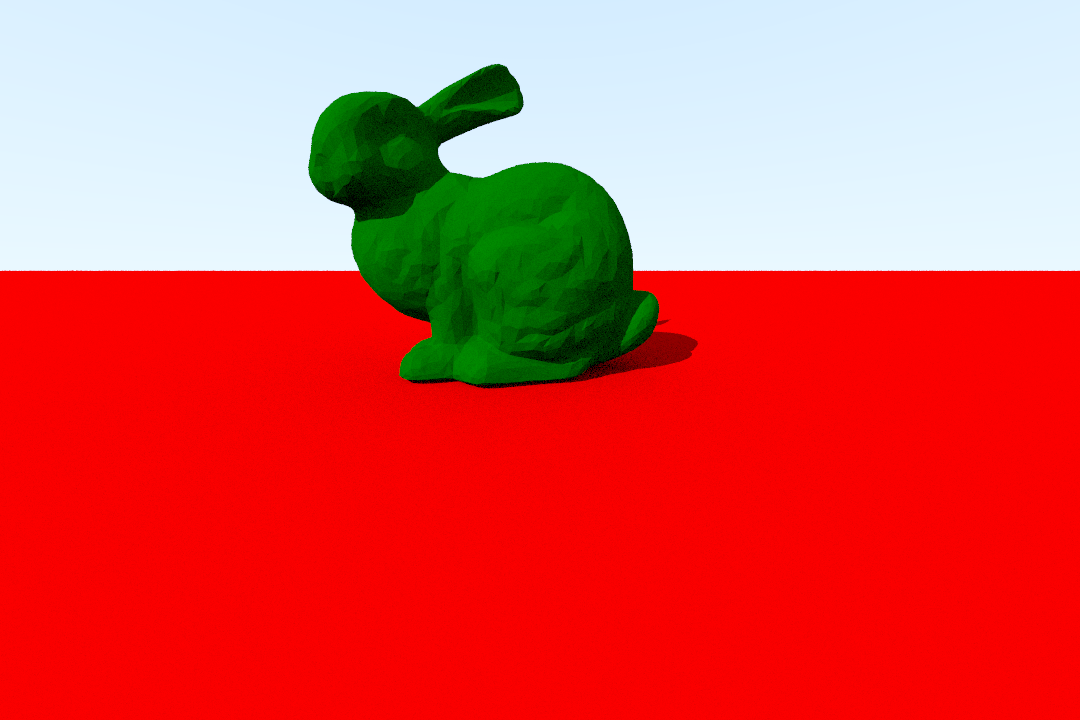
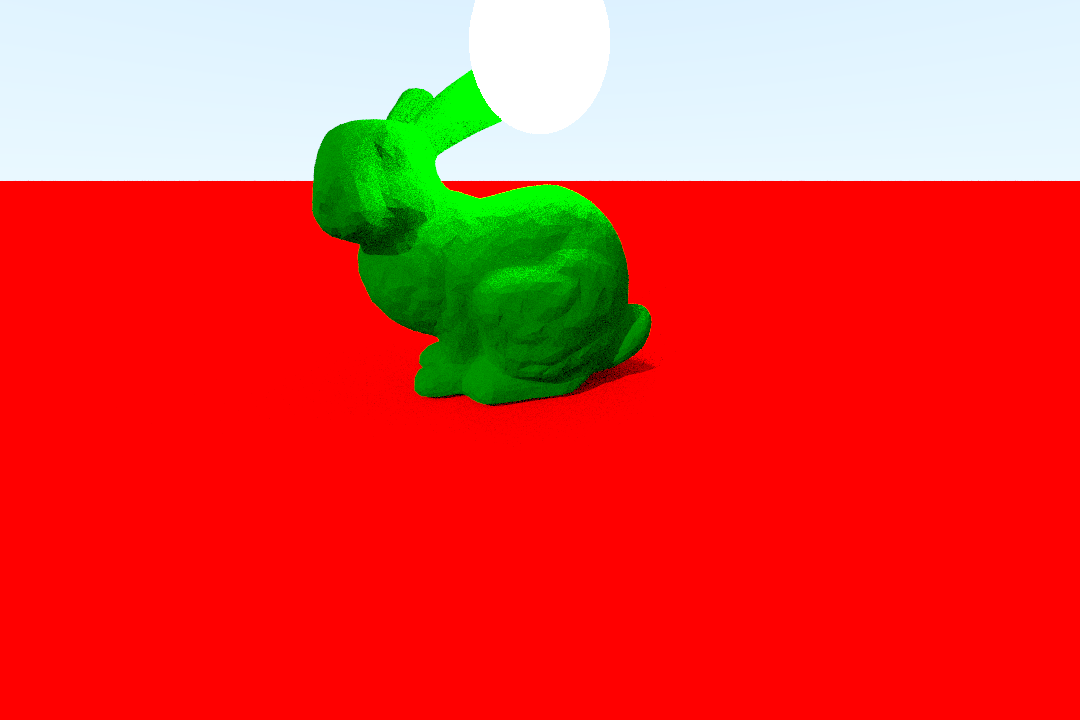
implemented full MIS with area lights and per-bounce NEE

Changed region(s): [[0.0, 0.0, 1.0, 0.5806]]

diff --git a/renderer/renderer.h b/renderer/renderer.h
@@ -8,36 +8,63 @@
 
 using LightList = std::vector<std::shared_ptr<Light>>;
 
-inline Vec3 direct_light(const HitRecord &rec, const Hittable &world, const LightList &lights) {
+inline double power_heuristic(double pdf_a, double pdf_b) {
+    double a2 = pdf_a * pdf_a;
+    double b2 = pdf_b * pdf_b;
+    return (a2 + b2) < 1e-6 ? 0.0 : a2 / (a2 + b2);
+}
+
+inline Vec3 direct_light(const Ray &ray_in, const HitRecord &rec, const Hittable &world, const LightList &lights) {
   Vec3 direct(0,0,0);
+  if (lights.empty()) return direct;
 
-  Ray dummy(rec.point, rec.normal);
-  Vec3 attenuation(1,1,1);
-  Ray scattered;
-  if (rec.mat) rec.mat->scatter(dummy, rec, attenuation, scattered);
-
+  // sampling all lights and accumulating
   for (const auto &light : lights) {
+    // NEE sample
     LightSample ls = light->sample(rec.point);
+    if (ls.pdf <= 0) continue;
+
     Vec3 to_light = ls.point - rec.point;
     double dist = to_light.norm();
     Vec3 to_light_dir = to_light / dist;
 
-    // check if surface faces the light
     double cos_theta = rec.normal.dot(to_light_dir);
     if (cos_theta <= 0) continue;
 
-    // shadow ray 
+    // shadow ray
     HitRecord shadow_rec;
     Ray shadow_ray(rec.point + rec.normal * 1e-4, to_light_dir);
-    if (world.hit(shadow_ray, 0.001, dist - 0.001, shadow_rec)) continue; // occluded
+    if (world.hit(shadow_ray, 0.001, dist - 0.01, shadow_rec)) {
+      if (!shadow_rec.mat->is_emissive()) continue; 
+    }
 
-    // Lambert BRDF * light emission * cos falloff / pdf
-    direct = direct + ls.emission * attenuation* cos_theta / ls.pdf;
+    // get surface attenuation
+    Vec3 attenuation(1,1,1);
+    Ray scattered_dummy;
+    if (rec.mat) rec.mat->scatter(ray_in, rec, attenuation, scattered_dummy);
+
+    // BSDF pdf for this light direction, to be used as MIS weight
+    Ray to_light_ray(rec.point, to_light_dir);
+    double bsdf_pdf = rec.mat->scattering_pdf(ray_in, rec, to_light_ray);
+    double light_pdf = ls.pdf;
+
+    // for delta lights (point/directional), bsdf_pdf = 0 so weight = 1 (only nee can sample)
+    // for area lights, both are nonzero so MIS balance
+    double mis_weight = (bsdf_pdf > 0) ? power_heuristic(light_pdf, bsdf_pdf) : 1.0;
+    direct = direct + ls.emission * attenuation * cos_theta * mis_weight / light_pdf;
   }
   return direct;
 }
 
-inline Vec3 ray_color(const Ray &r, const Hittable &world, const LightList &lights, int depth, bool is_first_hit = true) {
+// compute total light pdf at a point for a given direction -> used for MIS weight on the BSDF side
+inline double total_light_pdf(const Vec3 &from, const Vec3 &dir, const LightList &lights) {
+  double total = 0.0;
+  for (const auto &light : lights)
+    total += light->pdf(from, dir);
+  return total;
+}
+
+inline Vec3 ray_color(const Ray &r, const Hittable &world, const LightList &lights, int depth, double prev_bsdf_pdf = -1.0) {
   if (depth <= 0) return Vec3(0,0,0);
   HitRecord rec;
 
@@ -45,23 +72,46 @@ inline Vec3 ray_color(const Ray &r, const Hittable &world, const LightList &ligh
     Ray scattered;
     Vec3 attenuation;
 
-    if (rec.mat->scatter(r, rec, attenuation, scattered)) {
-      Vec3 direct(0,0,0);
-      if (is_first_hit && !rec.mat->is_transmissive()) direct = direct_light(rec, world, lights);
-      Vec3 indirect = ray_color(scattered, world, lights, depth-1, false) * attenuation;
-      return direct + indirect;
+    // emissive hit
+    if (rec.mat->is_emissive()) {
+      Vec3 Le = rec.mat->emit(rec.u, rec.v, rec.point);
+
+      if (prev_bsdf_pdf < 0) return Le;
+
+      // diffuse bounce - check against NEE to prevent double counting
+      double light_pdf = total_light_pdf(r.origin, r.direction, lights);
+      double mis_weight = (light_pdf > 0) ? power_heuristic(prev_bsdf_pdf, light_pdf) : 1.0;
+      return Le * mis_weight;
     }
-    return Vec3(0,0,0);
+
+
+    // for non-emissive hitlist
+
+    if (!rec.mat->scatter(r, rec, attenuation, scattered)) return Vec3(0,0,0);
+    Vec3 result(0,0,0);
+
+    // do NEE at every diffuse bounce
+    if (!rec.mat->is_transmissive()) result = result + direct_light(r, rec, world, lights);
+    double bsdf_pdf = rec.mat->scattering_pdf(r, rec, scattered);
+
+    if (bsdf_pdf <= 0) {
+      result = result + ray_color(scattered, world, lights, depth - 1, -1.0) * attenuation;
+    } else {
+      // diffuse — pass bsdf_pdf for MIS weighting downstream
+      double cos_theta = rec.normal.dot(scattered.direction.normalize());
+      if (cos_theta > 0) {
+        Vec3 indirect = ray_color(scattered, world, lights, depth - 1, bsdf_pdf) * attenuation;
+        // cos_theta / bsdf_pdf = 1 for Lambertian but kept explicit for other BSDFs
+        result = result + indirect * (cos_theta / bsdf_pdf);
+      }
+    }
+    return result;
   }
-  // sky gradient
-  if (is_first_hit) {
-    Vec3 unit = r.direction.normalize();
-    double t = 0.5*(unit.y + 1.0);
-    return Vec3(1,1,1)*(1.0-t) + Vec3(0.5,0.7,1.0)*t;
-  }
+  // sky
   Vec3 unit = r.direction.normalize();
   double t = 0.5*(unit.y + 1.0);
-  return (Vec3(1,1,1)*(1.0-t) + Vec3(0.5,0.7,1.0)*t) * 0.5; // bounced rays that miss = black
+  Vec3 sky = Vec3(1,1,1)*(1.0-t) + Vec3(0.5,0.7,1.0)*t;
+  return (prev_bsdf_pdf < 0) ? sky : sky * 0.3;
 }
 
 inline void render_rows(int start_row, int end_row, int width, int height, int samples_per_pixel, int max_depth, const Camera &camera, const Hittable &world, const LightList &lights, std::vector<Vec3> &framebuffer) {
@@ -69,12 +119,10 @@ inline void render_rows(int start_row, int end_row, int width, int height, int s
     for (int i = 0; i < width; ++i) {
       Vec3 pixel_color(0,0,0);
       for (int k = 0; k < samples_per_pixel; ++k) {
-        
         double u = (i + random_double()) / (width - 1);
         double v = (j + random_double()) / (height - 1);
-
         Ray ray = camera.get_ray(u, v);
-        pixel_color = pixel_color + ray_color(ray, world, lights, max_depth);
+        pixel_color = pixel_color + ray_color(ray, world, lights, max_depth, -1.0);
       }
       // storing the frames
       framebuffer[j*width + i] = framebuffer[j*width + i] + pixel_color;

diff --git a/src/main.cpp b/src/main.cpp
@@ -27,9 +27,10 @@
 #include "../lights/point_light.h"
 #include "../lights/directional_light.h"
 #include "../objects/rotate.h"
+#include "../materials/diffuse_light.h"
+#include "../lights/area_light.h"
 #include <memory>
  
-
 int main() {
   int width = 1080;
   int height = 720;
@@ -40,23 +41,31 @@ int main() {
   HittableList world;
   LightList lights;
 
-  // lights.push_back(std::make_shared<PointLight>(Vec3(-20, 20, 20), Vec3(1,1,1), 100.0));
-  lights.push_back(std::make_shared<DirectionalLight>(Vec3(-1,1,1), Vec3(1,1,1), 1));
-
+  
   auto mat1 = std::make_shared<Lambertian>(std::make_shared<SolidColor>(Vec3(1, 0, 0)));
   auto mat2 = std::make_shared<Lambertian>(std::make_shared<SolidColor>(Vec3(0, 1, 0) * 0.2));
   auto mat3 = std::make_shared<Dielectric>(1.5, std::make_shared<SolidColor>(Vec3(1,1,1)));
   auto mat4 = std::make_shared<Metal>(std::make_shared<SolidColor>(Vec3(1.0, 1.0, 1.0)), 0.0);
   auto mat5 = std::make_shared<Lambertian>(std::make_shared<ImageTexture>("../assets/earth.png"));
-
+  
   world.add(std::make_shared<Plane>(Vec3(0, 0, 0), Vec3(0,1,0), mat1));
-
+  
   auto obj_list = std::make_shared<HittableList>();
   auto triangles = load_obj_triangle("../assets/models/bunny.obj", mat2, 100, Vec3(0 ,-3.331,0));
   for (auto t : triangles)
-      obj_list -> add(t);  
+  obj_list -> add(t);  
   auto obj_bvh = std::make_shared<BVHNode>(obj_list->objects, 0, obj_list->objects.size());
-    world.add(std::make_shared<Rotate>(obj_bvh, 0, 0, 0));
+  world.add(std::make_shared<Rotate>(obj_bvh, 0, 0, 0));
+  
+  
+  //lights
+  auto light_mat = std::make_shared<DiffuseLight>(Vec3(1.0, 0.9, 0.7) * 10.0);  
+  world.add(std::make_shared<Sphere>(Vec3(0,15,0), 3.0, light_mat));
+  lights.push_back(std::make_shared<SphereAreaLight>(Vec3(0,15,0), 3.0, Vec3(1.0, 0.9, 0.7), 10.0));
+  
+  // lights.push_back(std::make_shared<PointLight>(Vec3(-20, 20, 20), Vec3(1,1,1), 100.0));
+  lights.push_back(std::make_shared<DirectionalLight>(Vec3(-1,1,1), Vec3(1,1,1), 1));
+  
   BVHNode world_bvh(world.objects, 0, world.objects.size());
 
   AABB debug_box;
@@ -66,7 +75,7 @@ int main() {
 
   // Camera setup
   double aspect_ratio = double(width)/height;
-  Vec3 lookfrom(0, 5, 20);
+  Vec3 lookfrom(0, 10, 20);
   Vec3 lookat(0, 0, 0);
   Vec3 vup(0, 1, 0);
   double focus_dist = (lookfrom - lookat).norm();

diff --git a/lights/area_light.h b/lights/area_light.h
@@ -1,0 +1,57 @@
+#pragma once
+#include "light.h"
+#include "../utils/math_utils.h"
+#include "../utils/sampling_utils.h"
+
+class SphereAreaLight : public Light {
+public:
+  Vec3 center;
+  double radius;
+  Vec3 color;
+  double intensity;
+
+  SphereAreaLight(const Vec3 &center, double radius, const Vec3 &color, double intensity)
+    : center(center), radius(radius), color(color), intensity(intensity) {}
+
+  LightSample sample(const Vec3 &from) const override {
+    // sample a random point on the sphere surface
+    Vec3 rand_dir = random_in_unit_sphere().normalize();
+    Vec3 point_on_light = center + rand_dir * radius;
+
+    Vec3 to_light = point_on_light - from;
+    double dist2 = to_light.dot(to_light);
+    double dist = sqrt(dist2);
+    Vec3 to_light_dir = to_light / dist;
+
+    // pdf in solid angle = dist² / (cos_theta_light * area)
+    double cos_theta_light = fabs(rand_dir.dot(to_light_dir * -1));
+    double area = 4.0 * PI * radius * radius;
+    double pdf_val = (cos_theta_light < 1e-6) ? 0.0 : dist2 / (cos_theta_light * area);
+
+    LightSample ls;
+    ls.point = point_on_light;
+    ls.normal = rand_dir;
+    ls.emission = color * intensity;
+    ls.pdf = pdf_val;
+    return ls;
+  }
+
+  Vec3 emission(const Vec3 &from, const Vec3 &dir) const override {
+    return color * intensity;
+  }
+
+  double pdf(const Vec3 &from, const Vec3 &dir) const override {
+    // check if ray from 'from' in direction 'dir' hits the sphere
+    Vec3 oc = from - center;
+    double a = dir.dot(dir);
+    double b = oc.dot(dir);
+    double c = oc.dot(oc) - radius * radius;
+    double discriminant = b*b - a*c;
+    if (discriminant < 0) return 0.0;
+
+    // solid angle pdf
+    double cos_theta_max = sqrt(1.0 - radius*radius / oc.dot(oc));
+    double solid_angle = 2.0 * PI * (1.0 - cos_theta_max);
+    return 1.0 / solid_angle;
+  }
+};

diff --git a/materials/diffuse_light.h b/materials/diffuse_light.h
@@ -1,0 +1,23 @@
+#pragma once
+#include "material.h"
+#include "../textures/texture.h"
+#include "../textures/solid_color.h"
+#include <memory>
+
+class DiffuseLight : public Material {
+public:
+  std::shared_ptr<Texture> emit_tex;
+
+  DiffuseLight(std::shared_ptr<Texture> t) : emit_tex(t) {}
+  DiffuseLight(const Vec3 &color) : emit_tex(std::make_shared<SolidColor>(color)) {}
+
+  bool scatter(const Ray &ray_in, const HitRecord &rec, Vec3 &attenuation, Ray &scattered) const override {
+    return false; // lights don't scatter
+  }
+
+  Vec3 emit(double u, double v, const Vec3 &point) const override {
+    return emit_tex->value(u, v, point);
+  }
+
+  bool is_emissive() const override { return true; }
+};

diff --git a/materials/material.h b/materials/material.h
@@ -7,5 +7,8 @@ class HitRecord;
 class Material {
 public:
   virtual bool scatter(const Ray &ray_in, const HitRecord &rec, Vec3 &attenuation, Ray &scattered) const = 0;
-  virtual bool is_transmissive() const {return false;}
+  virtual double scattering_pdf(const Ray &ray_in, const HitRecord &rec, const Ray &scattered) const { return 0.0; }
+  virtual Vec3 emit(double u, double v, const Vec3 &point) const { return Vec3(0,0,0); }
+  virtual bool is_transmissive() const { return false; }
+  virtual bool is_emissive() const { return false; }
 };

diff --git a/materials/lambertian.h b/materials/lambertian.h
@@ -11,4 +11,8 @@ public:
   std::shared_ptr<Texture> albedo;
   Lambertian (std::shared_ptr<Texture> a);
   bool scatter(const Ray &ray_in, const HitRecord &rec, Vec3 &attenuation, Ray &scattered) const override;
+  double scattering_pdf(const Ray &ray_in, const HitRecord &rec, const Ray &scattered) const override {
+    double cos_theta = rec.normal.dot(scattered.direction.normalize());
+    return cos_theta < 0 ? 0.0 : cos_theta / PI;
+  }
 };
